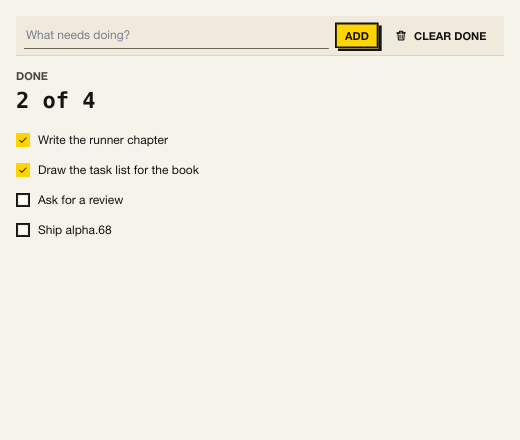
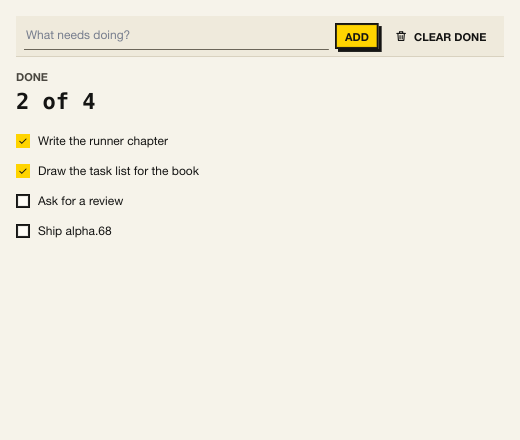
The Kit app: every component on a page, a Keyboard page, a toast stack, new props shown; a manifest; a test that keeps it whole
pages.lua places all 39 components (divider, list, notice, text_area and
toaster were missing) with their code: a version field with an inline
error, text areas (one tab_inserts), a slider's value_label, a hidden-label
radio group, the table's badge/tone status column and border (the worker
adds a tone column), a list with badges, notices in each tone, badge
tooltip and fade, a line chart's units, bars with a unit and on_select and
lying bars, a toaster stacking every tone with Undo, and a Keyboard page
for the components that are one Tab stop. kui.config.lua names it Kit
(dev.kui.kit.gallery, 1280x860). the_kit_app_places_every_component reads
the schema's names against the app; the walk test also flips density and
shadows and stacks toasts. The book's tasks picture is redrawn.

diff --git a/addons/kit/bindings/node/kit.d.ts b/addons/kit/bindings/node/kit.d.ts
@@ -808,7 +808,7 @@ export interface CodeProps {
 export interface NoticeProps {
   /** What happened, or what to know. */
   message: string;
-  /** Danger, warn, ok, accent or neutral (the default). */
+  /** Danger, warn, ok, accent, info or neutral (the default). */
   tone?: Tone;
   /** A bold first line. */
   title?: string;

diff --git a/packages/kui/kit/components.d.ts b/packages/kui/kit/components.d.ts
@@ -808,7 +808,7 @@ export interface CodeProps {
 export interface NoticeProps {
   /** What happened, or what to know. */
   message: string;
-  /** Danger, warn, ok, accent or neutral (the default). */
+  /** Danger, warn, ok, accent, info or neutral (the default). */
   tone?: Tone;
   /** A bold first line. */
   title?: string;

diff --git a/crates/kui-cli/tests/run.rs b/crates/kui-cli/tests/run.rs
@@ -328,6 +328,9 @@ fn the_kit_app_draws_every_page_in_every_skin_without_a_warning() {
         local steps = {}
         for _, p in ipairs(PAGES) do steps[#steps + 1] = { kind = "page", change = { value = p.value } } end
         for _, s in ipairs({ "phosphor", "neutral", "ledger" }) do steps[#steps + 1] = { kind = "skin", change = { value = s } } end
+        steps[#steps + 1] = { kind = "density", toggle = { on = true } }
+        steps[#steps + 1] = { kind = "shadows", toggle = { on = false } }
+        steps[#steps + 1] = { kind = "toast_all" }
         steps[#steps + 1] = { kind = "menu", open = true }
         steps[#steps + 1] = { kind = "dialog", open = true }
         local i = 0
@@ -345,6 +348,31 @@ fn the_kit_app_draws_every_page_in_every_skin_without_a_warning() {
     assert!(o.status.success(), "{s}");
     assert!(!s.contains("warning"), "{s}");
     assert!(s.contains("rows\t100000\tspans\t18000"), "the worker's channels arrived:\n{s}");
+}
+
+/// The Kit app is Kit's gallery: every component its schema describes is
+/// placed on one of its pages (by its wrapper, `kit.<name>(`), so a new
+/// component cannot ship without a live demo.
+#[test]
+fn the_kit_app_places_every_component() {
+    let kit = Path::new(env!("CARGO_MANIFEST_DIR")).join("../../addons/kit");
+    let schema = std::fs::read_to_string(kit.join("schema.lua")).unwrap();
+    let app = ["main.lua", "pages.lua"]
+        .iter()
+        .map(|f| std::fs::read_to_string(kit.join("app").join(f)).unwrap())
+        .collect::<String>();
+    // A component's entry opens a line of its own: `    { "name",`.
+    let names: Vec<&str> = schema
+        .lines()
+        .filter_map(|l| l.strip_prefix("    { \""))
+        .filter_map(|l| l.split('"').next())
+        .collect();
+    assert!(names.len() >= 39, "the schema's components: {names:?}");
+    let missing: Vec<&&str> = names.iter().filter(|n| !app.contains(&format!("kit.{n}("))).collect();
+    assert!(missing.is_empty(), "components with no demo in the Kit app: {missing:?}");
+    // And it runs as an app of its own: a name, an id, a window.
+    let config = std::fs::read_to_string(kit.join("app/kui.config.lua")).unwrap();
+    assert!(config.contains("name = \"Kit\"") && config.contains("id = \"dev.kui.kit.gallery\""), "{config}");
 }
 
 /// Runs a Kit sample's own headless test (addons/kit/samples/<name>/test),

diff --git a/addons/kit/bindings/rust/src/lib.rs b/addons/kit/bindings/rust/src/lib.rs
@@ -3992,7 +3992,7 @@ impl Code {
 pub struct Notice {
     /// What happened, or what to know.
     pub message: String,
-    /// Danger, warn, ok, accent or neutral (the default).
+    /// Danger, warn, ok, accent, info or neutral (the default).
     pub tone: Option<Tone>,
     /// A bold first line.
     pub title: Option<String>,
@@ -4014,7 +4014,7 @@ impl Notice {
         }
     }
 
-    /// Danger, warn, ok, accent or neutral (the default).
+    /// Danger, warn, ok, accent, info or neutral (the default).
     pub fn tone(mut self, v: Tone) -> Self {
         self.tone = Some(v);
         self

diff --git a/addons/kit/bindings/c/kit.h b/addons/kit/bindings/c/kit.h
@@ -1978,7 +1978,7 @@ typedef struct KitNotice {
      */
     KuiStr message;
     /*
-     * Danger, warn, ok, accent or neutral (the default).
+     * Danger, warn, ok, accent, info or neutral (the default).
      */
     KitTone tone;
     /*
